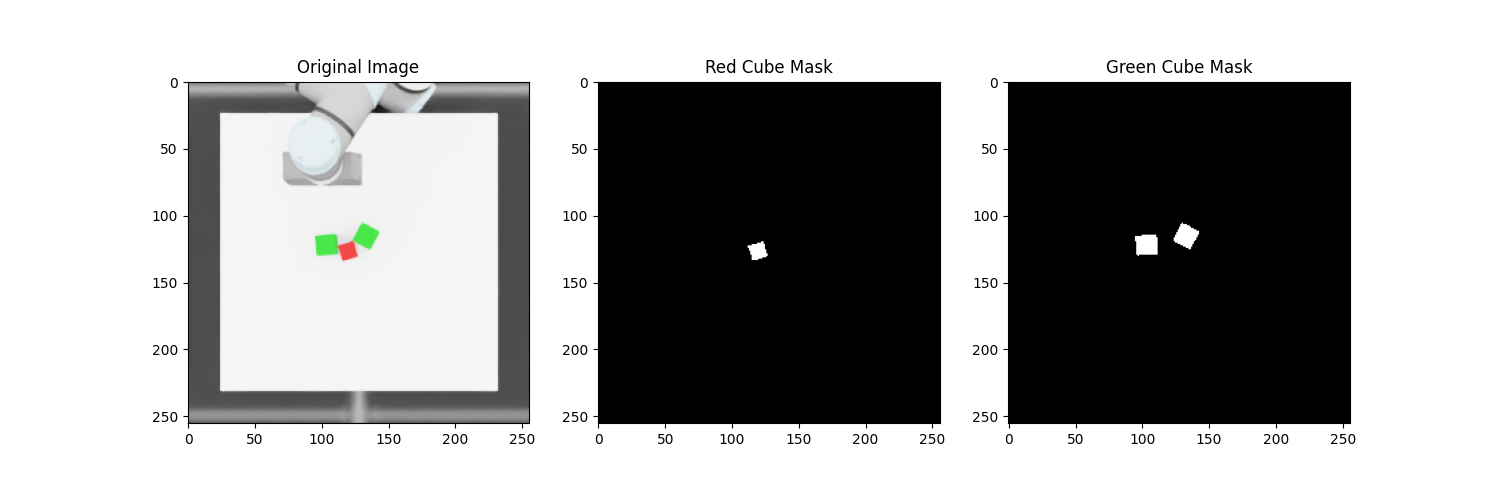
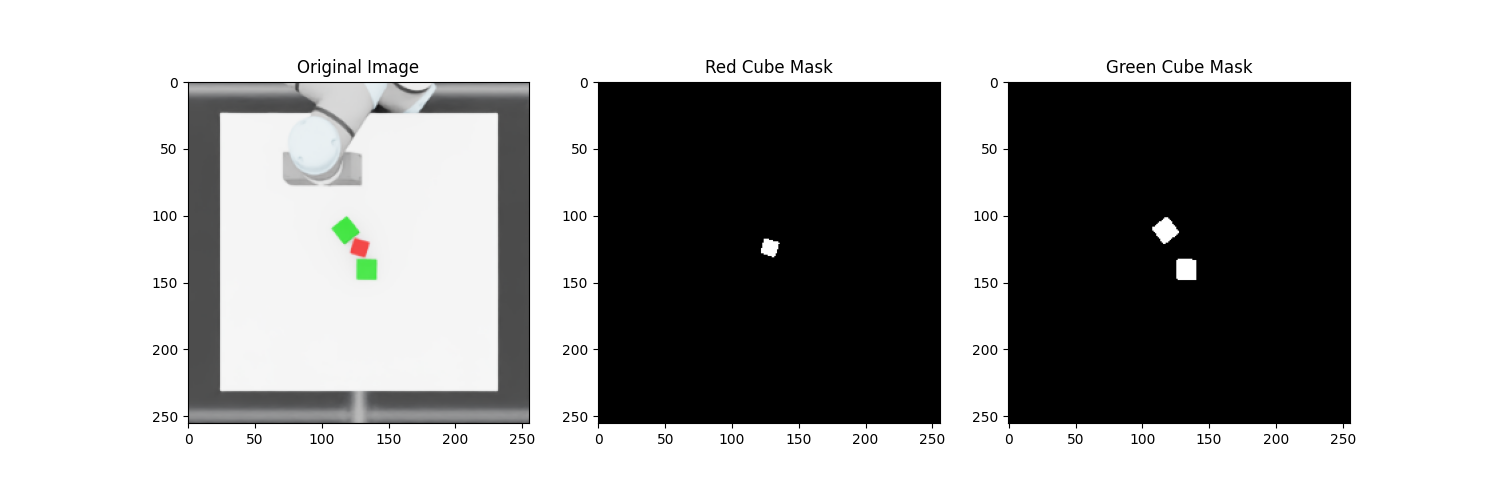
update mp2

Changed region(s): [[0.184, 0.42, 0.276, 0.57], [0.736, 0.42, 0.7973, 0.57], [0.4907, 0.48, 0.5213, 0.54]]

diff --git a/mp2/run.py b/mp2/run.py
@@ -232,7 +232,7 @@ class Experiment:
         '''
         You code goes here.
         '''
-
+        print(dir(self.scene["birdview_camera"].data))
         # birdview_camera intrinsic and extrinsic matrix
         intrinsics = np.squeeze(self.scene["birdview_camera"].data.intrinsic_matrices.detach().cpu().numpy())
         #extrinsics = np.array([
@@ -248,6 +248,7 @@ class Experiment:
             [ 0,  0, -1, 1.2],
             [ 0,  0,  0,   1]
         ])
+        # extrinsics = self.scene["birdview_camera"].data.world_to_view_matrix.detach().cpu().numpy()[0]
 
         # move the robot out of the way for getting information from birdview camera
         self.sim_wait(20)
@@ -263,9 +264,9 @@ class Experiment:
         # TODO: move the robot to make the stack
         hsv = cv2.cvtColor(color, cv2.COLOR_RGB2HSV)
 
-        lower_red1 = np.array([0, 120, 70])
+        lower_red1 = np.array([0, 120, 40])
         upper_red1 = np.array([10, 255, 255])
-        lower_red2 = np.array([170, 120, 70])
+        lower_red2 = np.array([170, 120, 40])
         upper_red2 = np.array([180, 255, 255])
         lower_green = np.array([40, 100, 50])
         upper_green = np.array([80, 255, 255])
@@ -306,6 +307,35 @@ class Experiment:
         points_world_h = (np.linalg.inv(extrinsics) @ points_camera_h.T).T
         points_world = points_world_h[:, :3]
 
+        #
+        # Calculate centroid from the raw red mask data
+        red_centroid = None
+        red_pixels = red_mask.flatten().astype(bool)
+        red_points = points_world[red_pixels]
+
+        # 定义关键高度
+        pre_grasp_height = 0.12  # 预抓取高度：立方体上方10厘米
+        grasp_height = 0.02      # 抓取高度：立方体上方2厘米
+        GRIPPER_OPEN_POS = 0.03    # 夹爪完全张开的位置 (m)
+        GRIPPER_CLOSED_POS = 0.0   # 夹爪完全闭合的位置 (m)
+        CUBE_HEIGHT = 0.05
+        PRE_MOVE_HEIGHT = 0.12 # Safe height for moves
+        
+        if red_points.shape[0] > 0:
+            r_top_z = np.max(red_points[:, 2])
+
+                # 2. The X and Y of the center is the average of the visible points
+            r_center_x = np.mean(red_points[:, 0])
+            r_center_y = np.mean(red_points[:, 1])
+
+            # 3. The true Z center is half a cube height below the top surface
+            
+            r_center_z = r_top_z - (CUBE_HEIGHT / 2.0)
+
+                # 4. Assemble the corrected, more accurate centroid
+            r_red_centroid = np.array([r_center_x, r_center_y, r_center_z])
+            print(f"CALCULATED RED CUBE CENTROID (from raw data): {r_red_centroid}")
+
                
         # Clean the masks to remove noise before finding contours
         kernel = np.ones((5, 5), np.uint8)
@@ -325,7 +355,20 @@ class Experiment:
             red_pixels = final_red_mask.flatten().astype(bool)
             red_points = points_world[red_pixels]
             if red_points.shape[0] > 0:
-                red_centroid = np.mean(red_points, axis=0)
+                #red_centroid = np.mean(red_points, axis=0)
+                # 1. Find the Z coordinate of the cube's top surface
+                top_z = np.max(red_points[:, 2])
+
+                # 2. The X and Y of the center is the average of the visible points
+                center_x = np.mean(red_points[:, 0])
+                center_y = np.mean(red_points[:, 1])
+
+                # 3. The true Z center is half a cube height below the top surface
+                CUBE_HEIGHT = 0.05 
+                center_z = top_z - (CUBE_HEIGHT / 2.0)
+
+                # 4. Assemble the corrected, more accurate centroid
+                red_centroid = np.array([center_x, center_y, center_z])
                 print(f"CALCULATED RED CUBE CENTROID: {red_centroid}")
 
         # Find centroids for all green obstacles
@@ -338,7 +381,14 @@ class Experiment:
                 green_pixels = mask.flatten().astype(bool)
                 green_points = points_world[green_pixels]
                 if green_points.shape[0] > 0:
-                    green_centroids.append(np.mean(green_points, axis=0))
+                    top_z = np.max(green_points[:, 2])
+                    center_x = np.mean(green_points[:, 0])
+                    center_y = np.mean(green_points[:, 1])
+                    CUBE_HEIGHT = 0.05
+                    center_z = top_z - (CUBE_HEIGHT / 2.0)
+                    corrected_centroid = np.array([center_x, center_y, center_z])
+                    green_centroids.append(corrected_centroid)
+                    #green_centroids.append(np.mean(green_points, axis=0))
         
         red_pixels = red_mask.flatten().astype(bool)
         green_pixels = green_mask.flatten().astype(bool)
@@ -394,42 +444,85 @@ class Experiment:
             quat_xyzw = Rotation.from_matrix(rotation_matrix).as_quat()
             target_quat_wxyz = np.array([quat_xyzw[3], quat_xyzw[0], quat_xyzw[1], quat_xyzw[2]])
 
-            # 定义关键高度
-            pre_grasp_height = 0.10  # 预抓取高度：立方体上方10厘米
-            grasp_height = 0.02      # 抓取高度：立方体上方2厘米
-            GRIPPER_OPEN_POS = 0.04    # 夹爪完全张开的位置 (m)
-            GRIPPER_CLOSED_POS = 0.0   # 夹爪完全闭合的位置 (m)
+            
 
+            # The best base is the one most isolated from other cubes, offering more room to maneuver.
+            best_base = None
+            max_isolation_dist = -1
+            all_cubes = [red_centroid] + green_centroids
+            for candidate_base in green_centroids:
+                dist_sum = 0
+                for other_cube in all_cubes:
+                    if not np.array_equal(candidate_base, other_cube):
+                        dist_sum += np.linalg.norm(candidate_base - other_cube)
+                if dist_sum > max_isolation_dist:
+                    max_isolation_dist = dist_sum
+                    best_base = candidate_base
+            base_green_cube = best_base
+
+            remaining_green = [gc for gc in green_centroids if not np.array_equal(gc, base_green_cube)]
+            top_green_cube = remaining_green[0]
+
+            fixed_orientation = Rotation.from_euler('xyz', [180, 0, 90], degrees=True).as_quat()[[3, 0, 1, 2]]
+            
+            print(f"Base green cube selected at: {base_green_cube}")
+            print(f"Top green cube selected at: {top_green_cube}")
 
             print("正在打开夹爪...")
             self.move_robot_joint(target_joint_pos=None, target_gripper_pos=GRIPPER_OPEN_POS, count=50)
             self.sim_wait(30)
 
-            # 1. 移动到预抓取位置
             print("正在移动到预抓取位置...")
             pre_grasp_pos = red_centroid + np.array([0.0, 0.0, pre_grasp_height])
             pre_grasp_pose = np.concatenate([pre_grasp_pos, target_quat_wxyz])
+            #pre_grasp_pose = np.concatenate([pre_grasp_pos, fixed_orientation])
             self.move_robot_ik(pre_grasp_pose)
             self.sim_wait(30)
 
-            # 2. 下降到抓取位置
+    
             print("正在下降以进行抓取...")
             grasp_pos = red_centroid + np.array([0.0, 0.0, grasp_height])
             grasp_pose = np.concatenate([grasp_pos, target_quat_wxyz])
+            # grasp_pose = np.concatenate([grasp_pos, fixed_orientation])
             self.move_robot_ik(grasp_pose)
             self.sim_wait(30)
 
-            # 3. 闭合夹爪
+  
             print("正在闭合夹爪...")
             self.move_robot_joint(target_joint_pos=None, target_gripper_pos=GRIPPER_CLOSED_POS, count=50)
             self.sim_wait(50)
 
-            # 4. 提起立方体
-            print("正在提起立方体...")
+            print("Picking the red cube")
             self.move_robot_ik(pre_grasp_pose) # Move back up to the pre-grasp height
             self.sim_wait(50)
 
-            print("Grasp sequence complete!")
+            place_pos_red = base_green_cube + np.array([0, 0, CUBE_HEIGHT])
+            print(f"--- Placing RED cube at {place_pos_red} ---")
+            pre_place_pos = place_pos_red + np.array([0.0, 0.0, PRE_MOVE_HEIGHT])
+            # self.move_robot_ik(np.concatenate([pre_place_pos, fixed_orientation])); self.sim_wait(50)
+            self.move_robot_ik(np.concatenate([pre_place_pos, target_quat_wxyz])); self.sim_wait(50)
+            self.move_robot_ik(np.concatenate([place_pos_red, target_quat_wxyz])); self.sim_wait(50)
+            self.move_robot_joint(None, GRIPPER_OPEN_POS, count=50); self.sim_wait(50)
+            self.move_robot_ik(np.concatenate([pre_place_pos, target_quat_wxyz])); self.sim_wait(40)
+
+            # === MOVE 2: Place TOP GREEN cube on RED cube ===
+            print(f"--- Picking TOP GREEN cube at {top_green_cube} ---")
+            pre_grasp_pos = top_green_cube + np.array([0.0, 0.0, PRE_MOVE_HEIGHT])
+            grasp_pos = top_green_cube + np.array([0.0, 0.0, grasp_height])
+            self.move_robot_ik(np.concatenate([pre_grasp_pos, target_quat_wxyz])); self.sim_wait(40)
+            self.move_robot_ik(np.concatenate([grasp_pos, target_quat_wxyz])); self.sim_wait(40)
+            self.move_robot_joint(None, GRIPPER_CLOSED_POS, count=50); self.sim_wait(50)
+            self.move_robot_ik(np.concatenate([pre_grasp_pos, target_quat_wxyz])); self.sim_wait(40)
+            
+            place_pos_green_top = base_green_cube + np.array([0, 0, CUBE_HEIGHT * 2])
+            print(f"--- Placing TOP GREEN cube at {place_pos_green_top} ---")
+            pre_place_pos = place_pos_green_top + np.array([0.0, 0.0, PRE_MOVE_HEIGHT])
+            self.move_robot_ik(np.concatenate([pre_place_pos, target_quat_wxyz])); self.sim_wait(50)
+            self.move_robot_ik(np.concatenate([place_pos_green_top, target_quat_wxyz])); self.sim_wait(50)
+            self.move_robot_joint(None, GRIPPER_OPEN_POS, count=50); self.sim_wait(50)
+            self.move_robot_ik(np.concatenate([pre_place_pos, target_quat_wxyz])); self.sim_wait(40)
+
+            print(">>> STACKING SEQUENCE COMPLETE! <<<")
 
         # steps simulation but does not command the robot
         while simulation_app.is_running():
